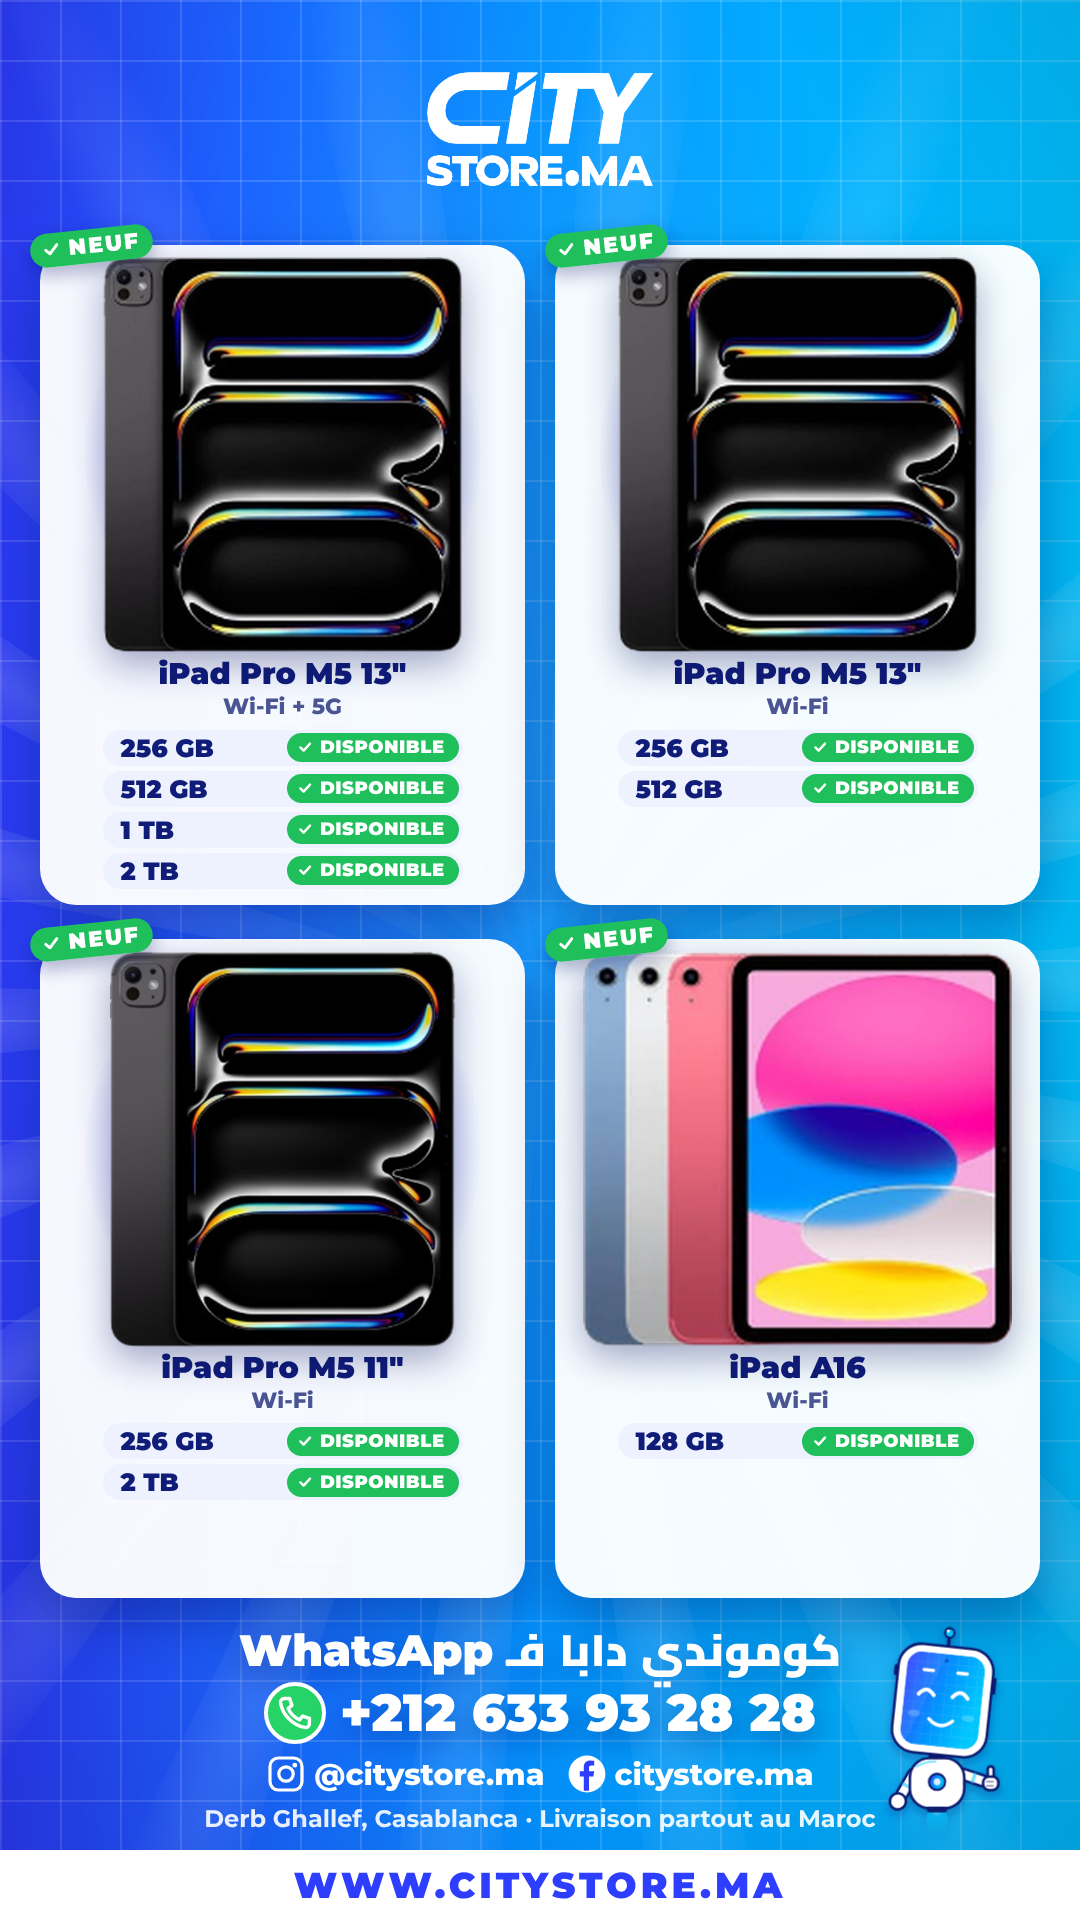
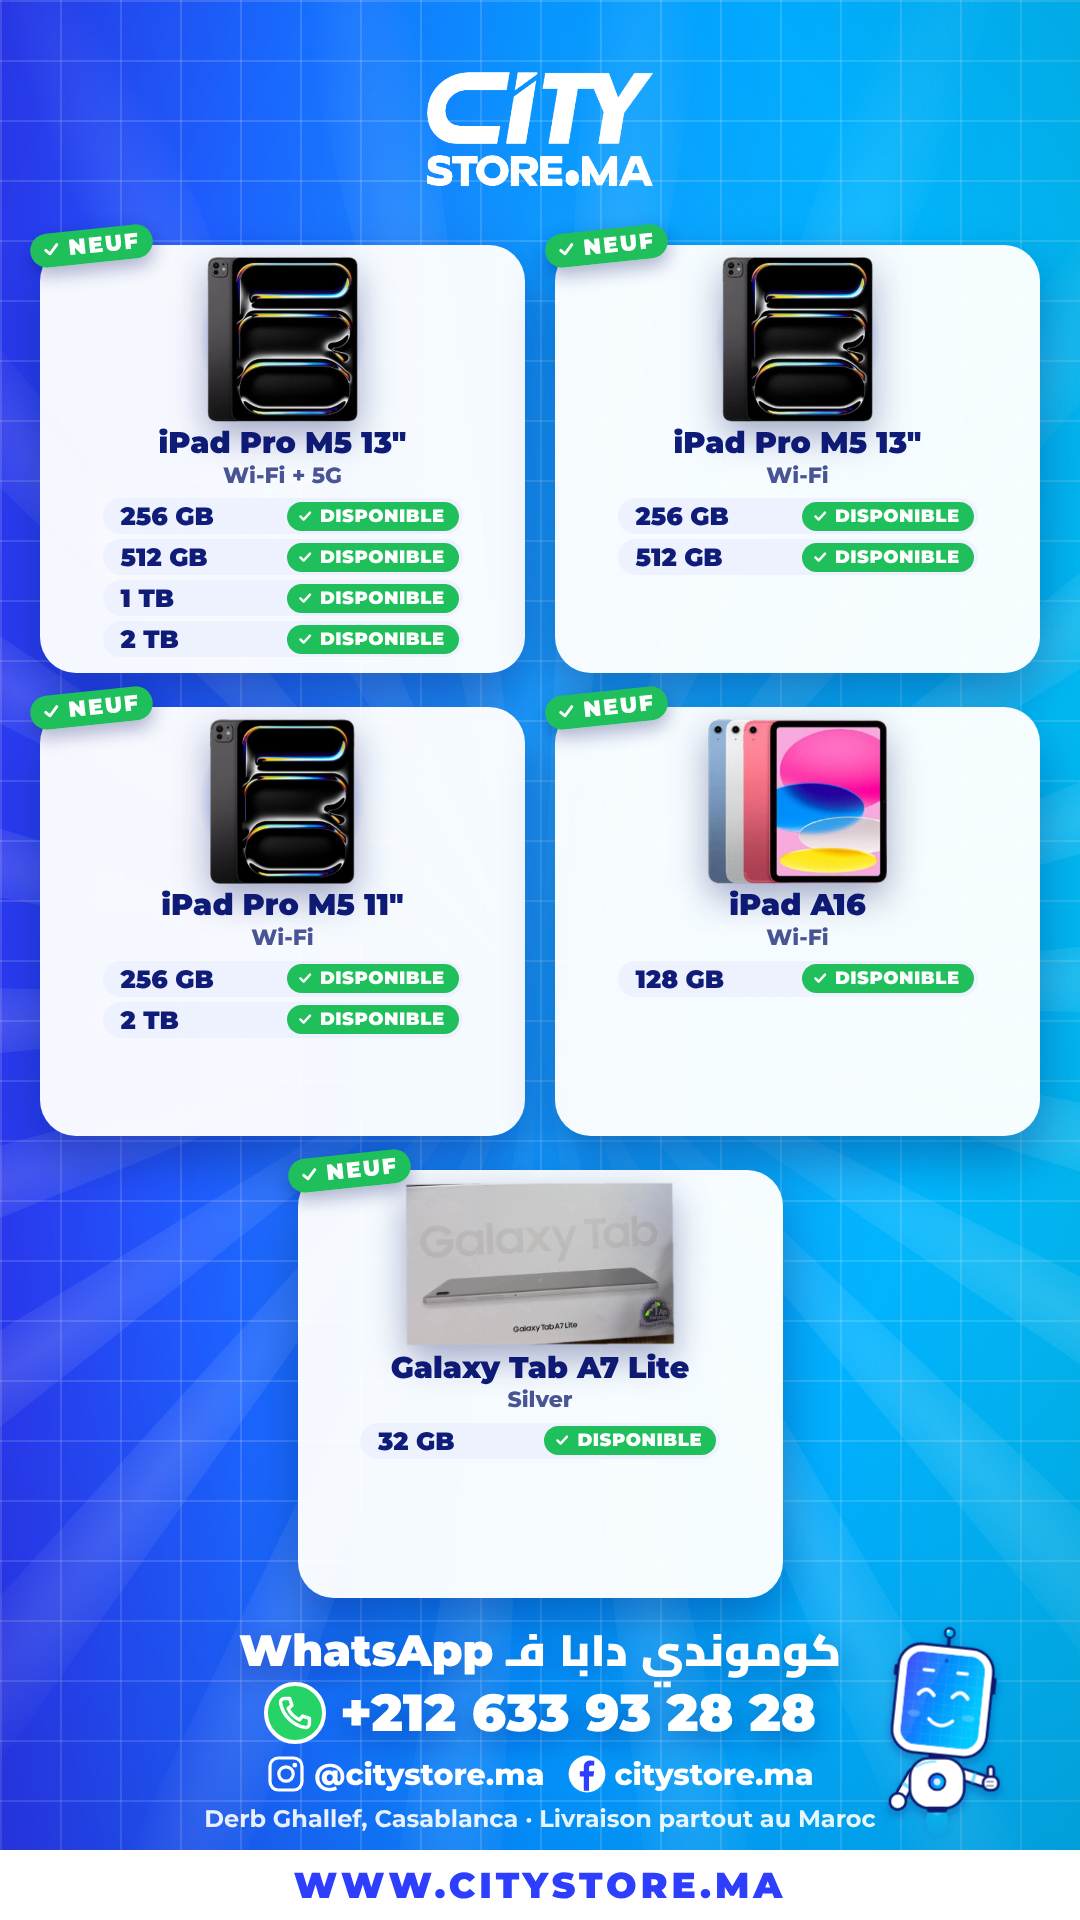
Tablets story: add Galaxy Tab A7 Lite Silver 32 GB (box cut from the shop photo)
Claude-Session: https://claude.ai/code/session_01B6UvVnyVQqoyQ1GwELGaCV

diff --git a/src/pricelist/lists.ts b/src/pricelist/lists.ts
@@ -40,6 +40,7 @@ export const PRICE_LISTS: Record<string, PriceListProps> = {
       { name: 'iPad Pro M5 13"', spec: "Wi-Fi", img: "pricelist/ipads/13.png", condition: "neuf", stock: ["256 GB", "512 GB"] },
       { name: 'iPad Pro M5 11"', spec: "Wi-Fi", img: "pricelist/ipads/11.png", condition: "neuf", stock: ["256 GB", "2 TB"] },
       { name: "iPad A16", spec: "Wi-Fi", img: "pricelist/ipads/a16.png", condition: "neuf", stock: ["128 GB"] },
+      { name: "Galaxy Tab A7 Lite", spec: "Silver", img: "pricelist/ipads/tab_a7lite.png", condition: "neuf", stock: ["32 GB"] },
     ],
   },
   watches: {

diff --git a/assets/pricelist/ipads/SOURCES.md b/assets/pricelist/ipads/SOURCES.md
@@ -4,3 +4,4 @@ Transparent PNGs supplied by City Store (originals in `src/`), trimmed and upsca
 - `ipadpro_m5_11_spaceblack.png` -> `public/pricelist/ipads/11.png`: the 11" card.
 Sizes as given by City Store: 13" Wi-Fi + 5G 256 GB / 512 GB / 1 TB / 2 TB; 13" Wi-Fi 256 GB / 512 GB; 11" Wi-Fi 256 GB / 2 TB.
 - `ipad_a16_four_colours.png` (301 px, Blue / Silver / Pink / Yellow) -> `public/pricelist/ipads/a16.png` (trimmed, upscaled 3x). iPad A16 Wi-Fi 128 GB.
+- Galaxy Tab A7 Lite (Silver, 32 GB): `galaxy_tab_a7lite_boxes_shop_photo.webp` (City Store shop photo) -> `tab_a7lite.png`: only the lower box is cut out (polygon mask), so the shop wall, the figure and the top box are left out. It is a photo of the sealed box, not an official render.
